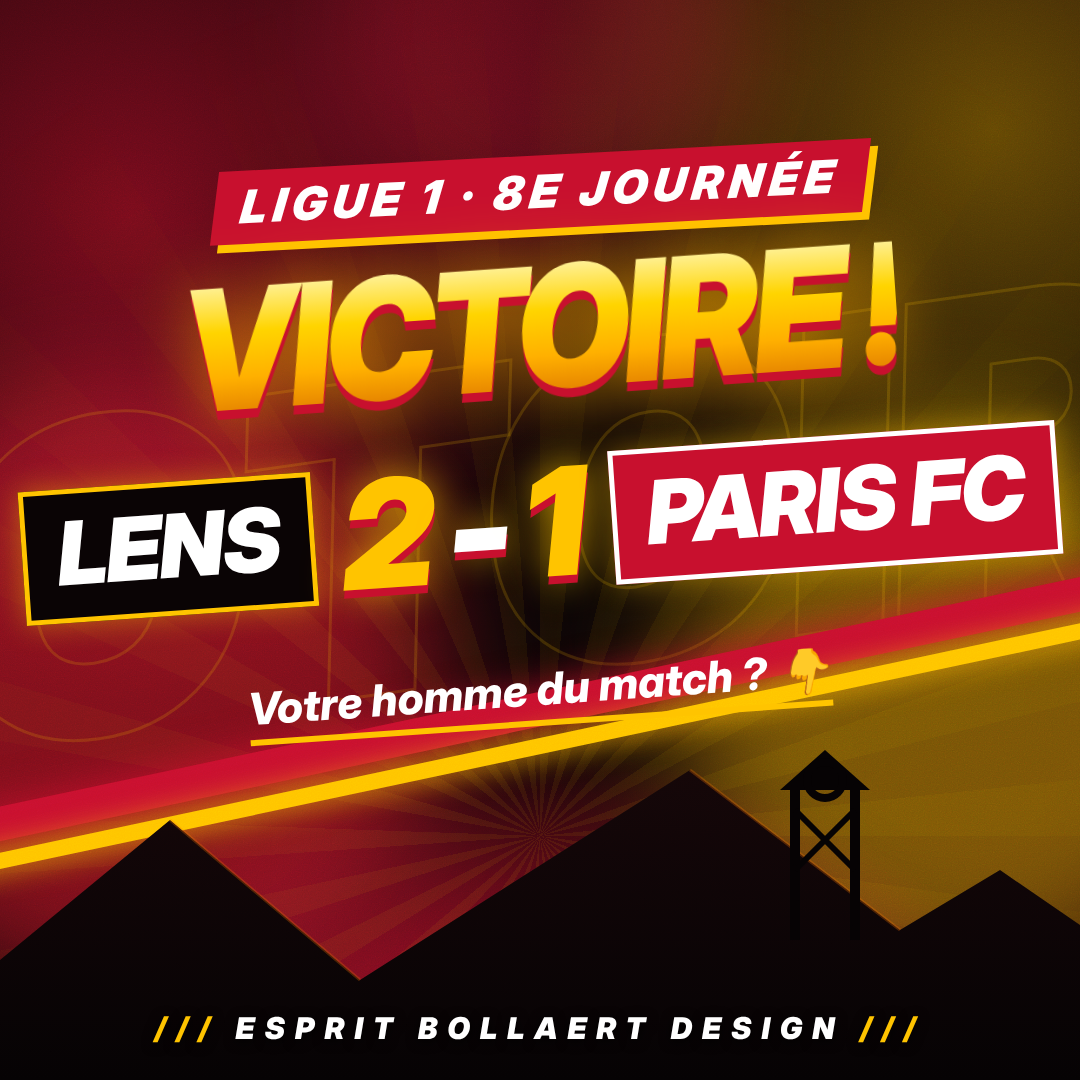
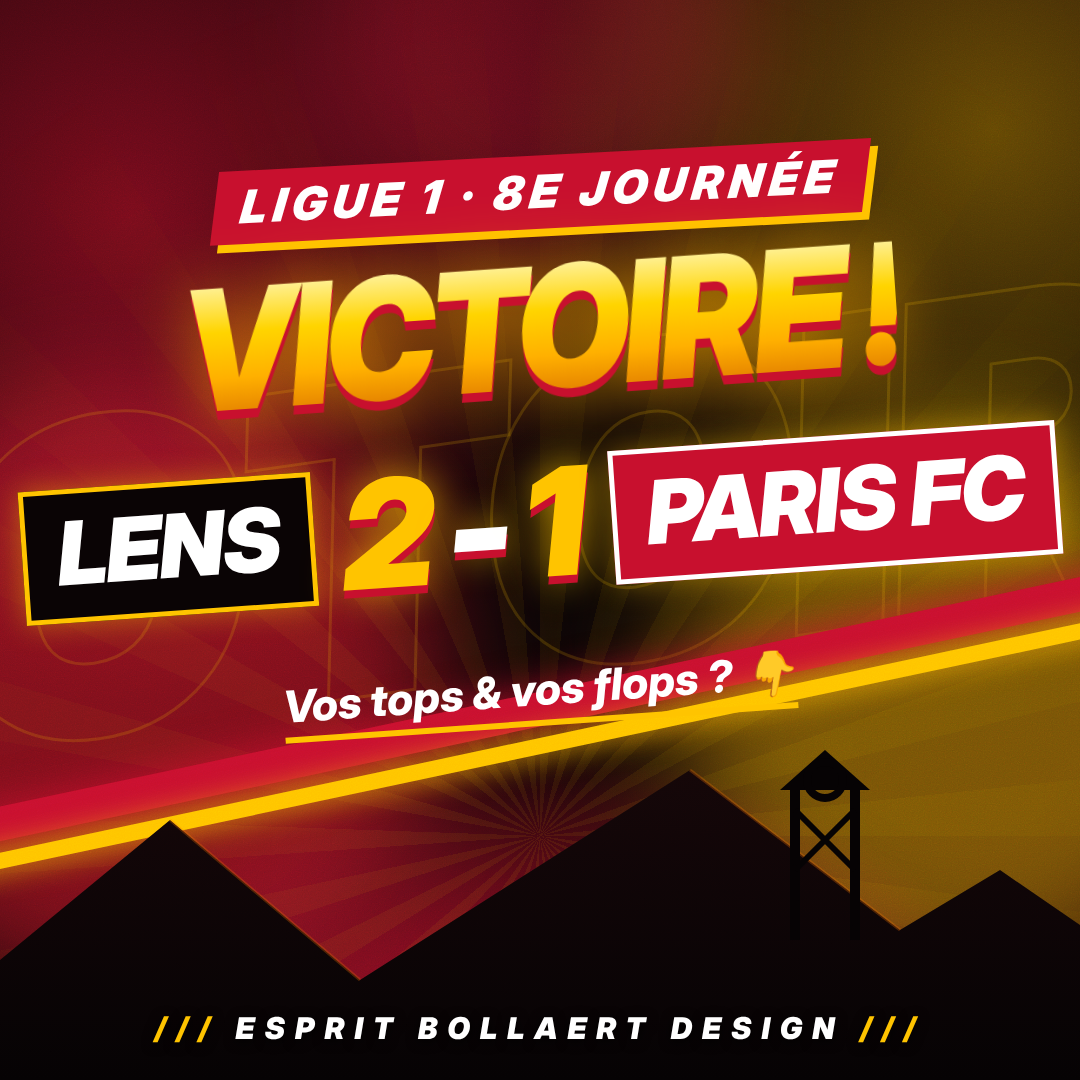
Post du lundi : tops et flops au lieu de l'homme du match
Claude-Session: https://claude.ai/code/session_01BkZvKhWLL5N53MRKeYmEzJ

Changed region(s): [[0.2139, 0.5806, 0.7639, 0.7028]]

diff --git a/gen.py b/gen.py
@@ -110,7 +110,7 @@ def build(kind, a):
         inner = f"""<div class="kicker">{e(info)}</div>
 <div class="big"><span class="l2 q2">{e(verdict)}</span></div>
 <div class="versus"><div class="team home">{e(home)}</div><div class="score">{e(sh)}<i>-</i>{e(sa)}</div><div class="team away">{e(away)}</div></div>
-<div class="cta">Votre homme du match ? 👇</div>"""
+<div class="cta">Vos tops &amp; vos flops ? 👇</div>"""
         return page(verdict, inner, True)
     if kind == "prono":
         home, away, when = a[0], a[1], a[2]
